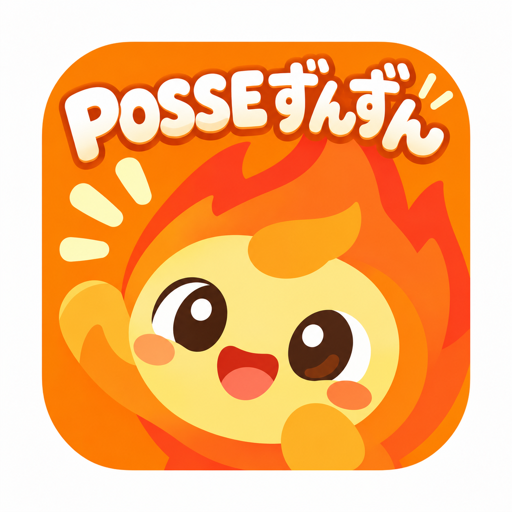
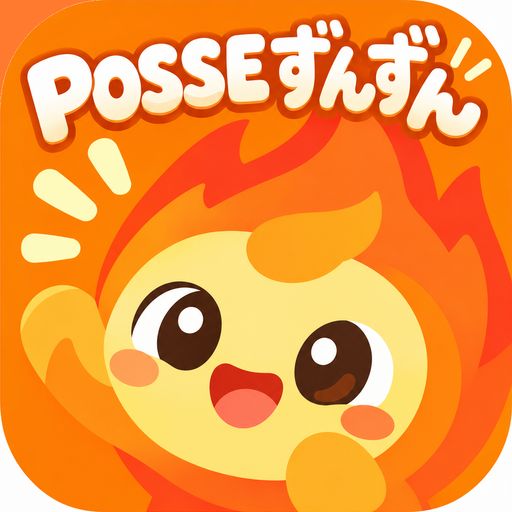
アプリアイコン変更

diff --git a/public/sw.js b/public/sw.js
@@ -2,7 +2,7 @@
  * - ページ遷移：ネットワーク優先、オフライン時はキャッシュ
  * - 同一オリジンの静的ファイルと Google Fonts：キャッシュ優先で裏で更新
  * 配信内容を変えたら CACHE のバージョンを上げる。 */
-const CACHE = 'minidrill-v5';
+const CACHE = 'minidrill-v6';
 
 self.addEventListener('install', (event) => {
   event.waitUntil(caches.open(CACHE).then((cache) => cache.addAll(['/', '/manifest.json'])));
